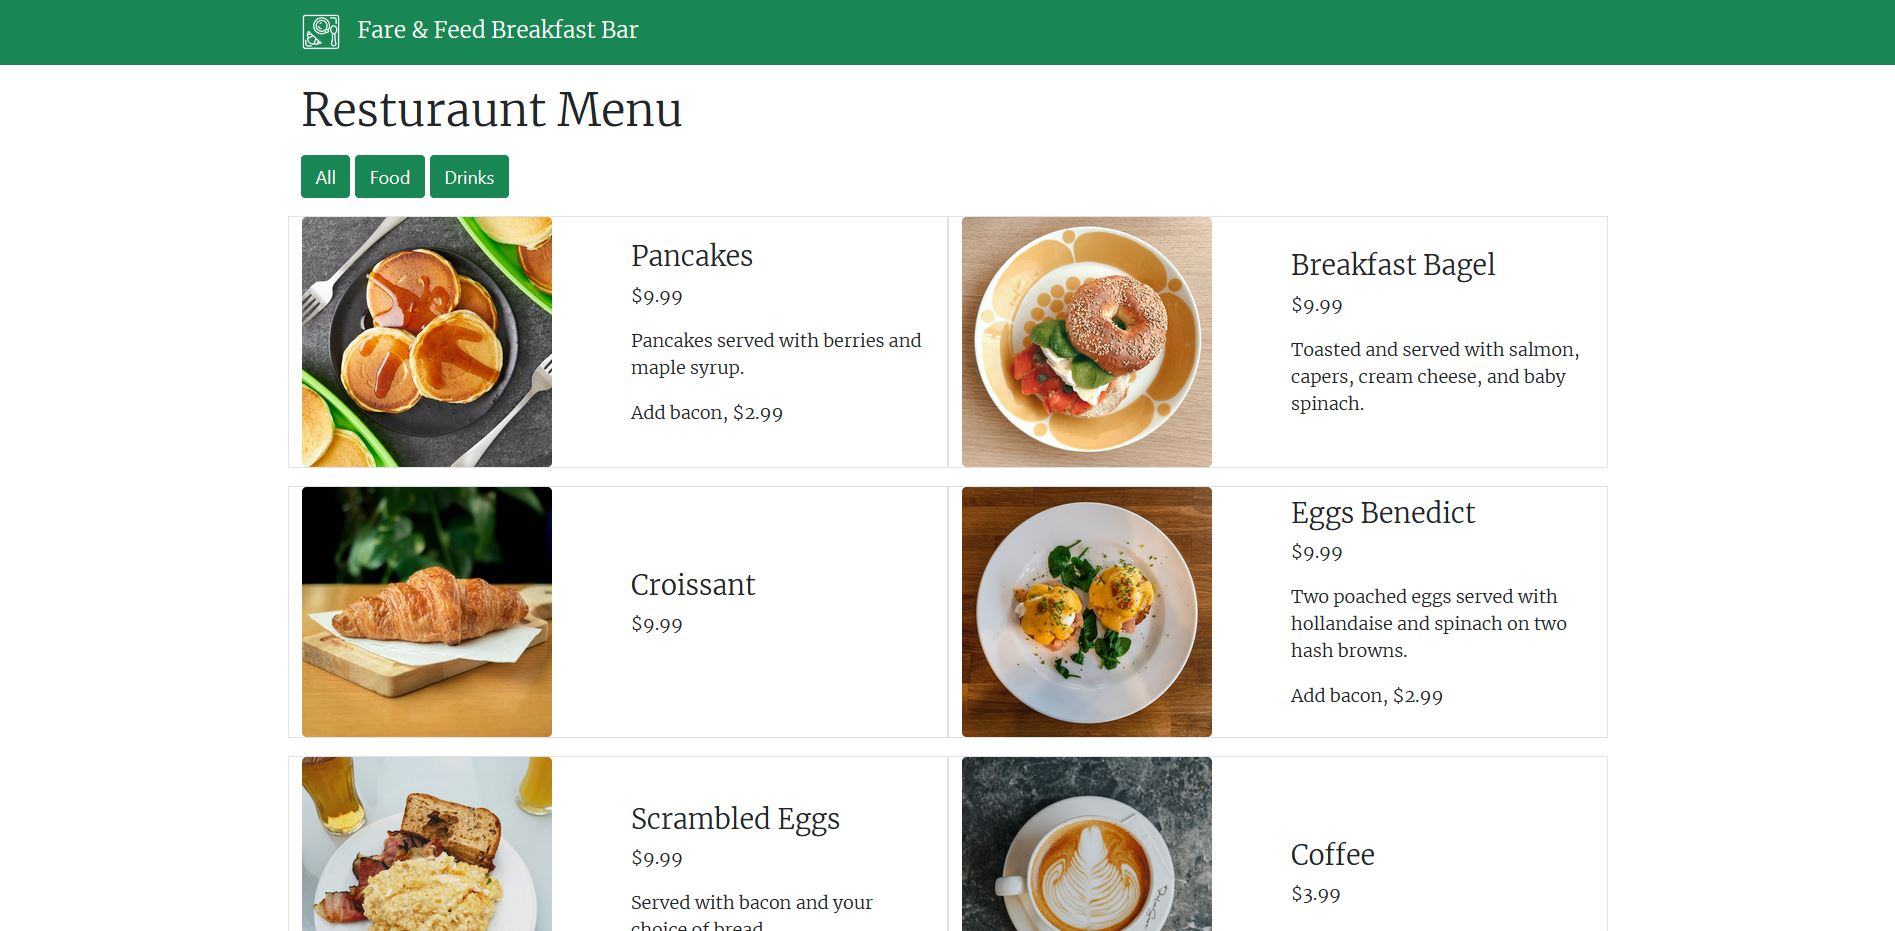
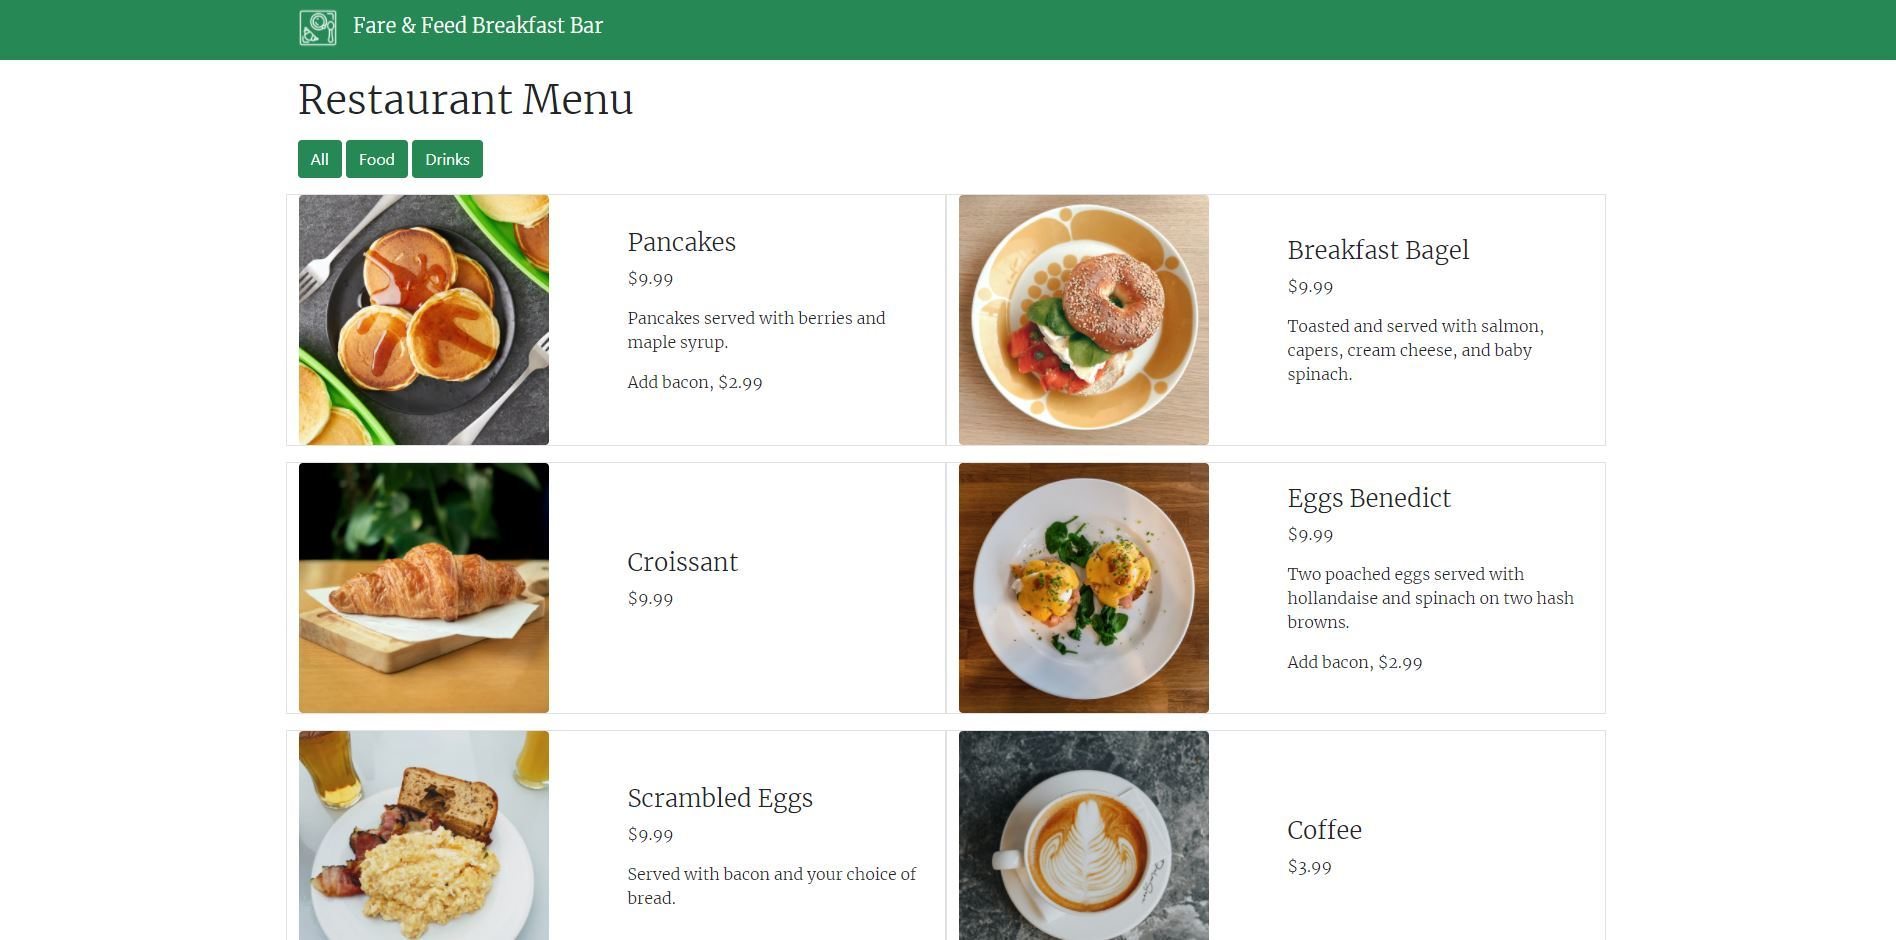
Fixed typos.

diff --git a/index.html b/index.html
@@ -75,7 +75,7 @@
             JavaScript.
           </p>
           <p>
-            Users can filter resturant menu items using the provided filter buttons.
+            Users can filter restaurant menu items using the provided filter buttons.
           </p>
           <a href="https://philedie.com/Fare-and-Feed-Breakfast-Bar/" target="_blank">{ View Website }</a>
           <a href="https://github.com/PhilEdie/Fare-and-Feed-Breakfast-Bar" target="_blank">{ View Code }</a>
